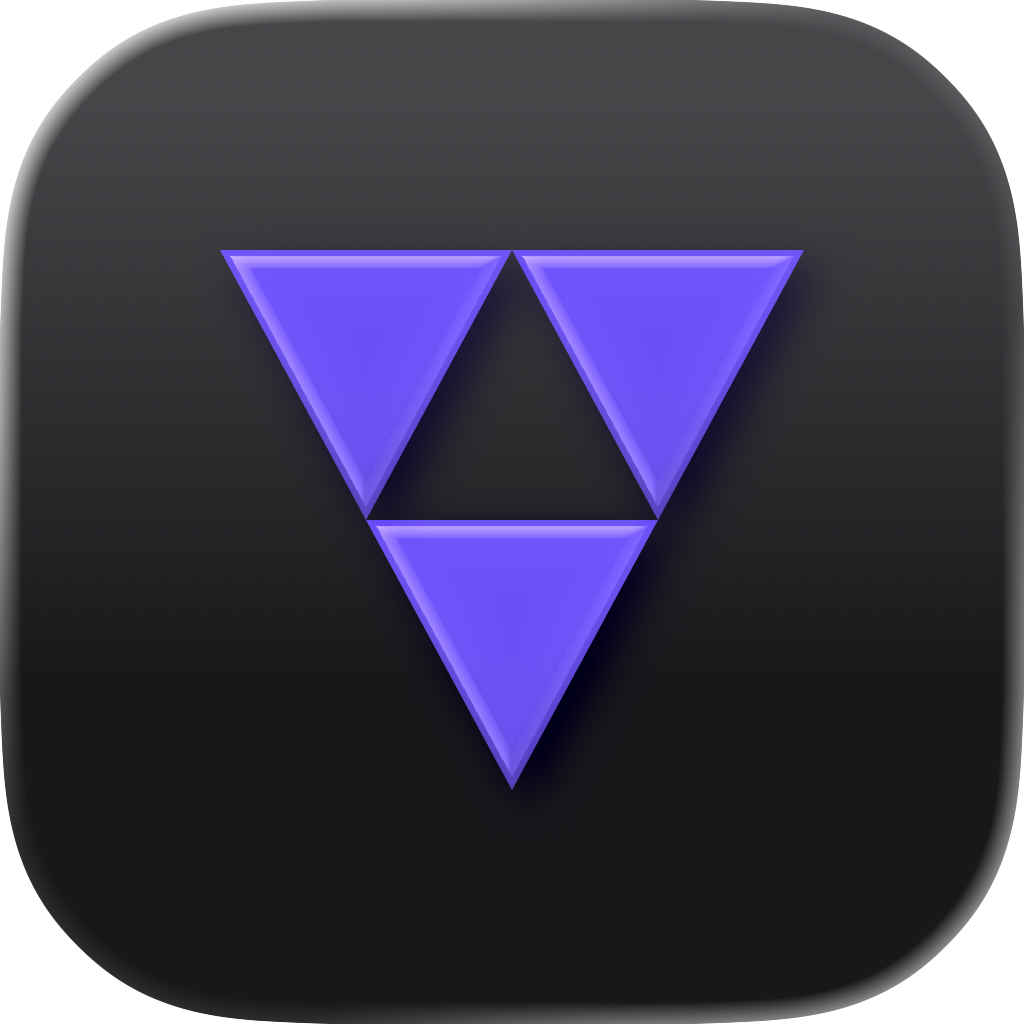
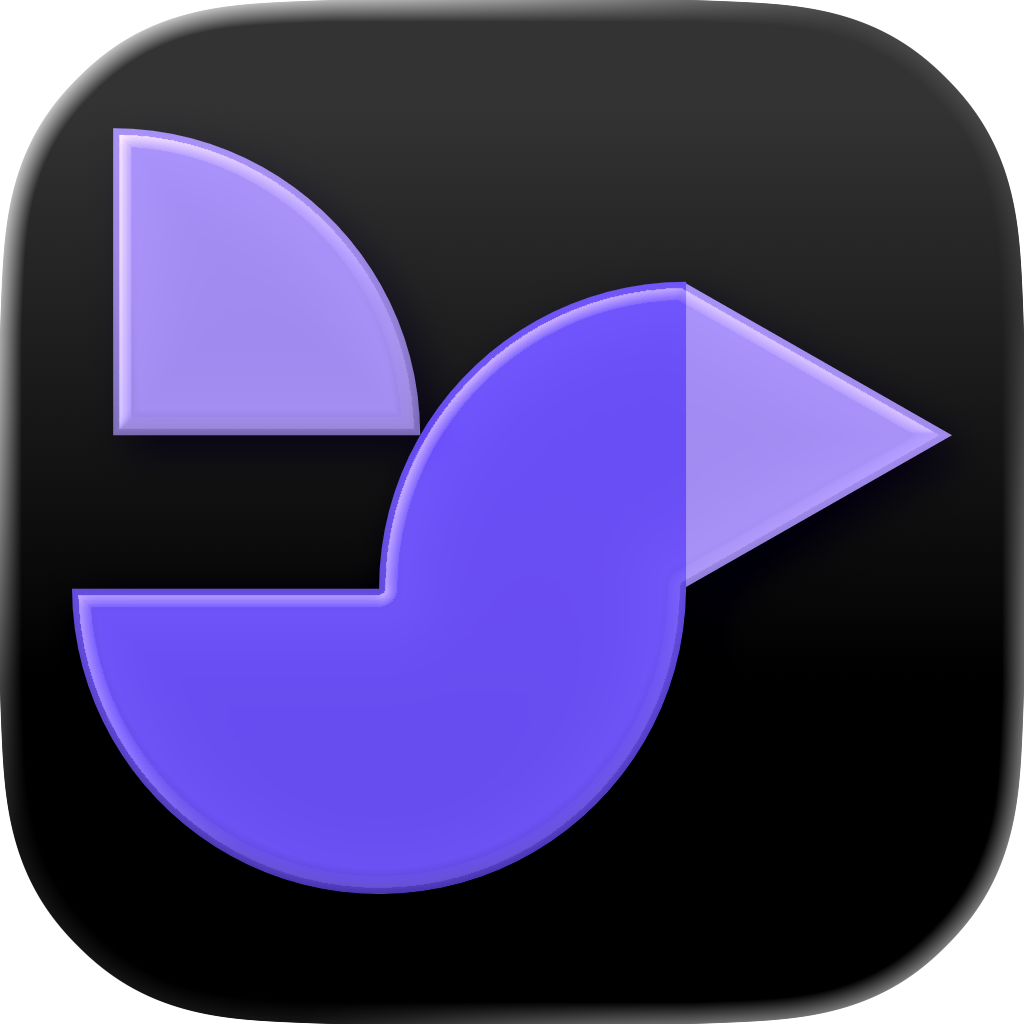
Redesign the TUFF mark as a geometric bird
Build the mark from one equilateral triangle and four quarter circles of
equal radius: two quarters for the belly, one for the shoulder, one for the
raised wing, and the triangle for the beak. Every coordinate follows from
that construction, so the flat SVG, the Icon Composer layers, the PNGs, and
the SwiftUI shape are all derived from the same numbers.

Icon Composer rims each layer's own silhouette, so the beak shares the body
layer and the glass edge follows the outside of the bird rather than the
boundary between the two violets.

diff --git a/Sources/TurboFieldfareApp/Mac/Components/TUFFMarkView.swift b/Sources/TurboFieldfareApp/Mac/Components/TUFFMarkView.swift
@@ -1,31 +1,18 @@
 import SwiftUI
 import TurboFieldfareMacPresentation
 
+/// The TUFF mark: a bird built from one equilateral triangle and four quarter
+/// circles of equal radius. Two quarters form the belly, one forms the
+/// shoulder, one forms the raised wing, and the triangle is the beak.
 struct TUFFMarkView: View {
     var body: some View {
         GeometryReader { proxy in
             let size = min(proxy.size.width, proxy.size.height)
             ZStack {
-                TUFFFacet(points: [
-                    CGPoint(x: 0.16, y: 0.20),
-                    CGPoint(x: 0.50, y: 0.20),
-                    CGPoint(x: 0.33, y: 0.50),
-                ])
-                .fill(TurboFieldfareMacTheme.accentColor)
-
-                TUFFFacet(points: [
-                    CGPoint(x: 0.50, y: 0.20),
-                    CGPoint(x: 0.84, y: 0.20),
-                    CGPoint(x: 0.67, y: 0.50),
-                ])
-                .fill(TurboFieldfareMacTheme.accentColor)
-
-                TUFFFacet(points: [
-                    CGPoint(x: 0.33, y: 0.50),
-                    CGPoint(x: 0.67, y: 0.50),
-                    CGPoint(x: 0.50, y: 0.80),
-                ])
-                .fill(TurboFieldfareMacTheme.accentColor)
+                RoundedRectangle(cornerRadius: size * 0.22, style: .continuous)
+                    .fill(.black)
+                TUFFWingAndBeak().fill(TurboFieldfareMacTheme.markWingColor)
+                TUFFBirdBody().fill(TurboFieldfareMacTheme.accentColor)
             }
             .frame(width: size, height: size)
             .frame(maxWidth: .infinity, maxHeight: .infinity)
@@ -35,23 +22,57 @@ struct TUFFMarkView: View {
     }
 }
 
-private struct TUFFFacet: Shape {
-    let points: [CGPoint]
-
+/// The raised wing quarter and the beak triangle.
+private struct TUFFWingAndBeak: Shape {
     func path(in rect: CGRect) -> Path {
-        guard let first = points.first else { return Path() }
         var path = Path()
-        path.move(to: point(first, in: rect))
-        for value in points.dropFirst() {
-            path.addLine(to: point(value, in: rect))
-        }
+        path.move(to: point(113.14, 128.19, in: rect))
+        path.addCurve(
+            to: point(420.19, 435.24, in: rect),
+            control1: point(282.72, 128.19, in: rect),
+            control2: point(420.19, 265.66, in: rect))
+        path.addLine(to: point(113.14, 435.24, in: rect))
+        path.closeSubpath()
+        path.move(to: point(683.09, 281.72, in: rect))
+        path.addLine(to: point(952, 435.24, in: rect))
+        path.addLine(to: point(683.09, 588.76, in: rect))
         path.closeSubpath()
         return path
     }
 
-    private func point(_ value: CGPoint, in rect: CGRect) -> CGPoint {
+    private func point(_ x: CGFloat, _ y: CGFloat, in rect: CGRect) -> CGPoint {
         CGPoint(
-            x: rect.minX + value.x * rect.width,
-            y: rect.minY + value.y * rect.height)
+            x: rect.minX + (x / 1024) * rect.width,
+            y: rect.minY + (y / 1024) * rect.height)
+    }
+}
+
+/// The belly and shoulder quarter as one outline.
+private struct TUFFBirdBody: Shape {
+    func path(in rect: CGRect) -> Path {
+        var path = Path()
+        path.move(to: point(72, 588.76, in: rect))
+        path.addCurve(
+            to: point(379.05, 895.81, in: rect),
+            control1: point(72, 758.34, in: rect),
+            control2: point(209.47, 895.81, in: rect))
+        path.addCurve(
+            to: point(686.1, 588.76, in: rect),
+            control1: point(548.62, 895.81, in: rect),
+            control2: point(686.1, 758.34, in: rect))
+        path.addLine(to: point(686.09, 281.72, in: rect))
+        path.addCurve(
+            to: point(379.04, 588.76, in: rect),
+            control1: point(516.51, 281.71, in: rect),
+            control2: point(379.04, 419.18, in: rect))
+        path.addLine(to: point(72, 588.76, in: rect))
+        path.closeSubpath()
+        return path
+    }
+
+    private func point(_ x: CGFloat, _ y: CGFloat, in rect: CGRect) -> CGPoint {
+        CGPoint(
+            x: rect.minX + (x / 1024) * rect.width,
+            y: rect.minY + (y / 1024) * rect.height)
     }
 }

diff --git a/Sources/TurboFieldfareApp/MacPresentation/TurboFieldfareMacTheme.swift b/Sources/TurboFieldfareApp/MacPresentation/TurboFieldfareMacTheme.swift
@@ -10,6 +10,14 @@ public enum TurboFieldfareMacTheme {
 
     public static let accentColor = Color(nsColor: accentNSColor)
 
+    public static let markWingNSColor = NSColor(
+        srgbRed: 167.0 / 255.0,
+        green: 139.0 / 255.0,
+        blue: 250.0 / 255.0,
+        alpha: 1)
+
+    public static let markWingColor = Color(nsColor: markWingNSColor)
+
     public static func surfaceStyle(
         reduceTransparency: Bool,
         material: Material = .regular

diff --git a/Scripts/check_brand_assets.rb b/Scripts/check_brand_assets.rb
@@ -27,40 +27,63 @@ theme = read("Sources/TurboFieldfareApp/MacPresentation/TurboFieldfareMacTheme.s
   "srgbRed: 111.0 / 255.0",
   "green: 77.0 / 255.0",
   "blue: 255.0 / 255.0",
+  "srgbRed: 167.0 / 255.0",
+  "green: 139.0 / 255.0",
+  "blue: 250.0 / 255.0",
 ].each do |component|
-  fail_check("TUFF Violet is not #6F4DFF") unless theme.include?(component)
+  fail_check("the two-violet mark palette changed") unless theme.include?(component)
 end
 
 logo = read("Brand/TUFFLogo.svg")
-fail_check("the flat logo is missing TUFF Violet") unless logo.include?("#6F4DFF")
-fail_check("every flat logo facet must use TUFF Violet") unless
-  logo.scan(/<path\b[^>]*fill="#6F4DFF"/i).length == 3
-fail_check("the flat logo must keep a transparent canvas") if logo.match?(/<rect\b/i)
+fail_check("the flat logo is missing its black field") unless
+  logo.match?(/<rect\b[^>]*fill="#000000"/i)
+fail_check("the flat logo must have one TUFF Violet body") unless
+  logo.scan(/<path\b[^>]*fill="#6F4DFF"/i).length == 1
+fail_check("the flat logo must have one light-violet wing") unless
+  logo.scan(/<path\b[^>]*fill="#A78BFA"/i).length == 1
+fail_check("the flat logo must not use outlined artwork") if
+  logo.match?(/<path\b[^>]*stroke=/i)
+fail_check("the flat logo must not bake in a gradient or filter") if
+  logo.match?(/<(?:linearGradient|radialGradient|filter)\b/i)
 
 manifest_path = File.join(ROOT, "Brand/TUFF.icon/icon.json")
 manifest = JSON.parse(File.read(manifest_path))
 groups = manifest.fetch("groups")
-fail_check("Icon Composer source must have three facet groups") unless groups.length == 3
+fail_check("Icon Composer source must separate body and wing") unless groups.length == 2
 fail_check("Icon Composer source must support Mac square renditions") unless
   manifest.dig("supported-platforms", "squares") == "shared"
+fail_check("Icon Composer canvas must be black") unless
+  manifest.dig("fill", "automatic-gradient") ==
+    "extended-srgb:0.00000,0.00000,0.00000,1.00000"
 
 assets_directory = File.join(ROOT, "Brand/TUFF.icon/Assets")
+approved_violets = %w[6F4DFF A78BFA].freeze
+seen_violets = []
 groups.each do |group|
   layers = group.fetch("layers")
-  fail_check("each facet group must contain one layer") unless layers.length == 1
+  fail_check("each mark group must contain one layer") unless layers.length == 1
   asset = layers.first.fetch("image-name")
-  fail_check("Icon Composer asset #{asset} is missing") unless
-    File.file?(File.join(assets_directory, asset))
-  asset_source = File.binread(File.join(assets_directory, asset))
-  fail_check("Icon Composer asset #{asset} must use TUFF Violet") unless
-    asset_source.scan(/<path\b[^>]*fill="#6F4DFF"/i).length == 1
+  asset_path = File.join(assets_directory, asset)
+  fail_check("Icon Composer asset #{asset} is missing") unless File.file?(asset_path)
+  asset_source = File.binread(asset_path)
+
+  # Icon Composer rims each layer's own silhouette, so shapes that must not have
+  # a glass edge between them have to share a layer. That means a layer can carry
+  # more than one violet, but every path in it still has to be brand colour.
+  paths = asset_source.scan(/<path\b[^>]*>/i)
+  fail_check("Icon Composer asset #{asset} has no artwork") if paths.empty?
+  paths.each do |path|
+    violet = path[/fill="#([0-9A-F]{6})"/i, 1]&.upcase
+    fail_check("Icon Composer asset #{asset} must fill every path with an approved violet") unless
+      approved_violets.include?(violet)
+    seen_violets << violet
+  end
+  fail_check("Icon Composer artwork must not use outlined paths") if
+    asset_source.match?(/<path\b[^>]*stroke=/i)
 end
 
-material_settings = groups.map do |group|
-  [group.dig("shadow", "opacity"), group.dig("translucency", "value")]
-end
-fail_check("all Icon Composer facets must use matching material settings") unless
-  material_settings.uniq.length == 1
+fail_check("the icon must use both approved violet shades") unless
+  seen_violets.uniq.sort == approved_violets.sort
 
 {
   "Brand/TUFFLogo.png" => true,

diff --git a/Brand/README.md b/Brand/README.md
@@ -1,8 +1,24 @@
 # TUFF brand source
 
-TUFF Violet is `#6F4DFF`. `TUFFLogo.svg` is the transparent single-color mark for documentation and other flat uses.
+TUFF Violet is `#6F4DFF`; the wing and beak use `#A78BFA`. The mark is a bird
+built from one equilateral triangle and four quarter circles of equal radius:
+two quarters make the belly, one makes the shoulder, one makes the raised wing,
+and the triangle is the beak sitting on the shoulder's vertical edge. Every
+coordinate follows from that construction, so the shape can be rederived rather
+than redrawn. `TUFFLogo.svg` is the flat version on black. It has no gradients,
+shadows, highlights, outlines, or baked depth.
 
-`TUFF.icon` is the editable 1024 by 1024 Icon Composer source. Its graphite canvas and three separate TUFF Violet facet groups use matching material settings to produce the default, dark, clear, and tinted system renditions. Open it in Icon Composer to tune material settings without baking blur, shadows, or highlights into the SVG artwork.
+`TUFF.icon` is the editable 1024 by 1024 Icon Composer source. Its black canvas
+and two layers let Icon Composer produce the default, dark, clear, and tinted
+system renditions.
+
+Icon Composer rims each layer's own silhouette, so anything that must not have a
+glass edge running through it has to share a layer. The beak therefore sits on
+the body layer even though it is the lighter violet: the glass edge follows the
+outside of the bird, and the beak reads as a colour change rather than a
+separate pane. The wing is genuinely detached, so it keeps its own layer and its
+own edge. The beak also tucks three units under the body so no hairline shows
+along the seam.
 
 The packaged app uses `Sources/TurboFieldfareApp/Mac/Resources/tuff-app-icon.png` as its flattened compatibility source. Apple’s renderer exports a 16-bit PNG, while `iconutil` requires an 8-bit source for the largest iconset member. Regenerate and normalize it with:
 
